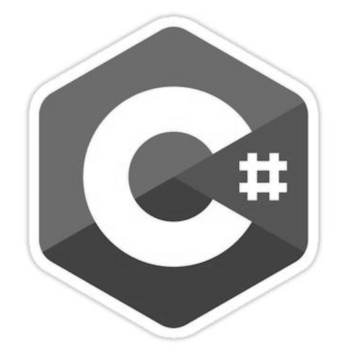
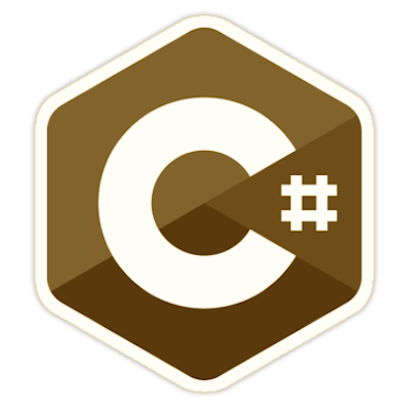
Skill page update
Skill page update... images and some other style changed

diff --git a/Portfolio_Project/css/skillsHomePage.css b/Portfolio_Project/css/skillsHomePage.css
@@ -1,57 +1,25 @@
 .container-fluid{
-/*background:linear-gradient(180deg, azure, transparent 30%), linear-gradient(360deg,#6eb5fc, transparent 30%), 
-#D1DBBD url('../img/bgbg.png') no-repeat center;
- padding: 50px;
-color: #333;
-overflow-x: hidden;
-text-align: center;
-font-family: "Roboto";
-font-size: 14px;
-line-height: 1.3em;
-display: flex;
-margin: 0 auto;
-height: auto; */
 margin-top: 20%;
 }
           
 /* .lists {
-/* background:linear-gradient(180deg, #6eb5fc, transparent 30%), linear-gradient(360deg,azure, transparent 30%), 
-#D1DBBD url('../img/bgbg.png')  no-repeat center;
-position: relative;
-border-radius: 20px;
-margin: 20% auto;
-height: 200px; */
+ */
 display: flex;
-/* padding:120px; 
+/*padding:120px; 
 } */
 
 .list {
 /* background-color: lightgray;   */
-/* color: #333;*/
 margin: 4px; 
 border-radius: 10px;
 overflow-x: hidden;
-
 }
           
 .list ul  {
 /*background-color: darkgreen;  */
 list-style: none;
 margin: 0 auto;
-/* padding: 5px;
-border-radius: 50%; */
 }
-
-/* li:hover {
-/* background-image: linear-gradient(to right, rgba(92, 196, 239, 0.5), rgba(174, 240, 240, 0.49), #95def7, rgb(242, 198, 21));
-background-position: 60% 0;
--webkit-transition: all .5s ease-in-out;
-transition: all .5s ease-in-out;
-cursor: pointer;
-text-align:justify;
-border: none;
-background-size: 300% 100%;
-} */
           
 img {
 display: block;
@@ -59,29 +27,37 @@ margin-left: auto;
 margin-right: auto;
 width:70%;
 }
+
+img:hover {
+-webkit-transform: scale(1.5);
+    background: none;
+transform: scale(1.4);
+    -webkit-transition: -webkit-transform 0.5s;
+	transition: transform 0.5s;
+}
           
 #learnMoreBtn{
-
-    border: none;
-    color: white;
-    padding:10px;
-    text-align: center;
-    text-decoration: none;
-    display: inline-block;
-    font-size: 18px;
-    margin-top: 20px;
-    cursor: pointer;
+border: 2px inset white;
+border-radius: 5px;
+color: white;
+padding:10px;
+text-align: center;
+text-decoration: none;
+display: inline-block;
+font-size: 18px;
+margin-top: 20px;
+cursor: pointer;
 }
 
 #learnMoreBtn :hover{
-background-image: linear-gradient(to right, rgba(240, 18, 18, 0.897), rgba(240, 18, 18, 0.897), #95def7, rgb(240, 18, 18, 0.897));
+background-image: linear-gradient(to right, #95def7, #4af417, #95def7, rgb(240, 18, 18, 0.897));
 background-position: 60% 0;
 -webkit-transition: all .5s ease-in-out;
 transition: all .5s ease-in-out;
 cursor: pointer;
 text-align:justify;
 border: none;
-background-size: 300% 100%;
+background-size: 300% 100%;  
 }
        
 @media only screen and (max-width: 600px){

diff --git a/Portfolio_Project/css/html_css_Modal.css b/Portfolio_Project/css/html_css_Modal.css
@@ -6,8 +6,8 @@
 .modal{
 
 background:linear-gradient(135deg, rgba(12, 30, 51, 0.71), transparent 40%), linear-gradient(315deg,rgba(12, 30, 51, 0.71), transparent 40%), 
-#D1DBBD url('../img/background.jpg')  no-repeat center;
-}
+#D1DBBD url('../img/background.jpg') no-repeat center;
+    }
 
 .modal-body{
 background: linear-gradient(360deg,rgba(149, 222, 247, 0.54), transparent 20%), rgba(209, 219, 189, 0.19) url('../img/background.jpg') no-repeat center;
@@ -21,7 +21,7 @@ background-color: azure;
 }
         
 .modal-content:hover{
-background-image: linear-gradient(to right, rgba(201, 226, 12, 0.66), rgba(196, 248, 248, 0.49), #95def7, rgba(165, 248, 187, 0.33));
+background-image: linear-gradient(to right, rgba(238, 247, 128, 0.55), #fdc296, #ace4f2, rgba(165, 248, 187, 0.33));
 background-position: 100% 0;
 -webkit-transition: all .4s ease-in-out;
 transition: all .4s ease-in-out;
@@ -30,7 +30,7 @@ text-align:justify;
 border: none;
 background-size: 300% 100%;
 border-radius: 20px;
-padding: 20px;
+padding: 10px;
     
 }
 .row{
@@ -57,7 +57,7 @@ height: auto auto;
 }
 
 .list {
-background-color: lightgray;  
+/*background-color: lightgray;  */
 color: #333;
 width: 250px;
 margin-right: 15px;
@@ -84,15 +84,20 @@ padding: 5px;
 max-height: calc(100% - 36px - 36px);
 }
 .list ul li {
-background-color: #fff;
+/*background-color: #f6f6ff;*/
 padding: 6px;
 border-radius: 5px;
 }
+
+ul .list_text {
+background-color: #f6f6ff;
+}
+
 .list ul li:not(:last-child) {
 margin-bottom: 10px;
 }
 
-li:hover {
+ul .list_text:hover {
 background-image: linear-gradient(to right, rgba(92, 196, 239, 0.5), rgba(174, 240, 240, 0.49), #95def7, rgb(242, 198, 21));
 background-position: 60% 0;
 -webkit-transition: all .5s ease-in-out;

diff --git a/Portfolio_Project/index.html b/Portfolio_Project/index.html
@@ -153,29 +153,29 @@
 						<div class="list">
 								<ul>
 									<li class="list_title">Proficient in:</li>
-									<li>HTML 5</li>
-									<li>CSS 3</li>
-									<li>Bootstrap</li>
+									<li class="list_text">HTML 5</li>
+									<li class="list_text">CSS 3</li>
+									<li class="list_text">Bootstrap</li>
 								</ul>
 						</div>
 
 						 <div class="list">
 								<ul>
 									<li class="list_title">Familiar with:</li>
-									<li>SASS</li>
-									<li>LESS</li>
-									<li></li>
-									<li></li>
+									<li class="list_text">SASS</li>
+									<li class="list_text">LESS</li>
+									<li class="list_text"></li>
+									<li class="list_text"></li>
 								</ul>
 						</div>
 
 						 <div class="list">
 								<ul>
 									<li class="list_title">Will soon learn:</li>
-									<li>STYLUS</li>
-									<li>ULKIT</li>
-									<li></li>
-									<li></li>
+									<li class="list_text">STYLUS</li>
+									<li class="list_text">ULKIT</li>
+									<li class="list_text"></li>
+									<li class="list_text"></li>
 								</ul>
 						</div>
 					</div>

diff --git a/Portfolio_Project/css/style.css b/Portfolio_Project/css/style.css
@@ -283,9 +283,10 @@ main {
 }
 
 .box__title {
-	font-size: 2em;
-    position: absolute;
-	bottom: 400px;
+	font-size: 1.8em;
+    text-shadow: 0px 0px 20px black;
+    position: fixed;
+	bottom: 70%;
 /*	left: 1em;*/
 	margin: 0;
 	color: white;
@@ -293,12 +294,12 @@ main {
 }
 
 .tabscontent__item:first-child .box {
-	background-image: url(../img/pattern.png),url(../img/pattern2.png);
+	/* background-image: url(../img/pattern.png),url(../img/pattern2.png);
     background-position: right bottom, left top;
 	background-repeat: no-repeat, repeat;
 	border-top-left-radius: 5%;
 	border-bottom-right-radius: 5%;
-	/* background-image: url(../img/codebagk.jpg), url(../img/pattern.png);  */
+	background-image: url(../img/codebagk.jpg), url(../img/pattern.png);  */
    /*background: linear-gradient(180deg, red transparent 55%), linear-gradient(360deg, red, transparent 55%), url(../img/codebagk.jpg),  no-repeat center;
    */
 }
